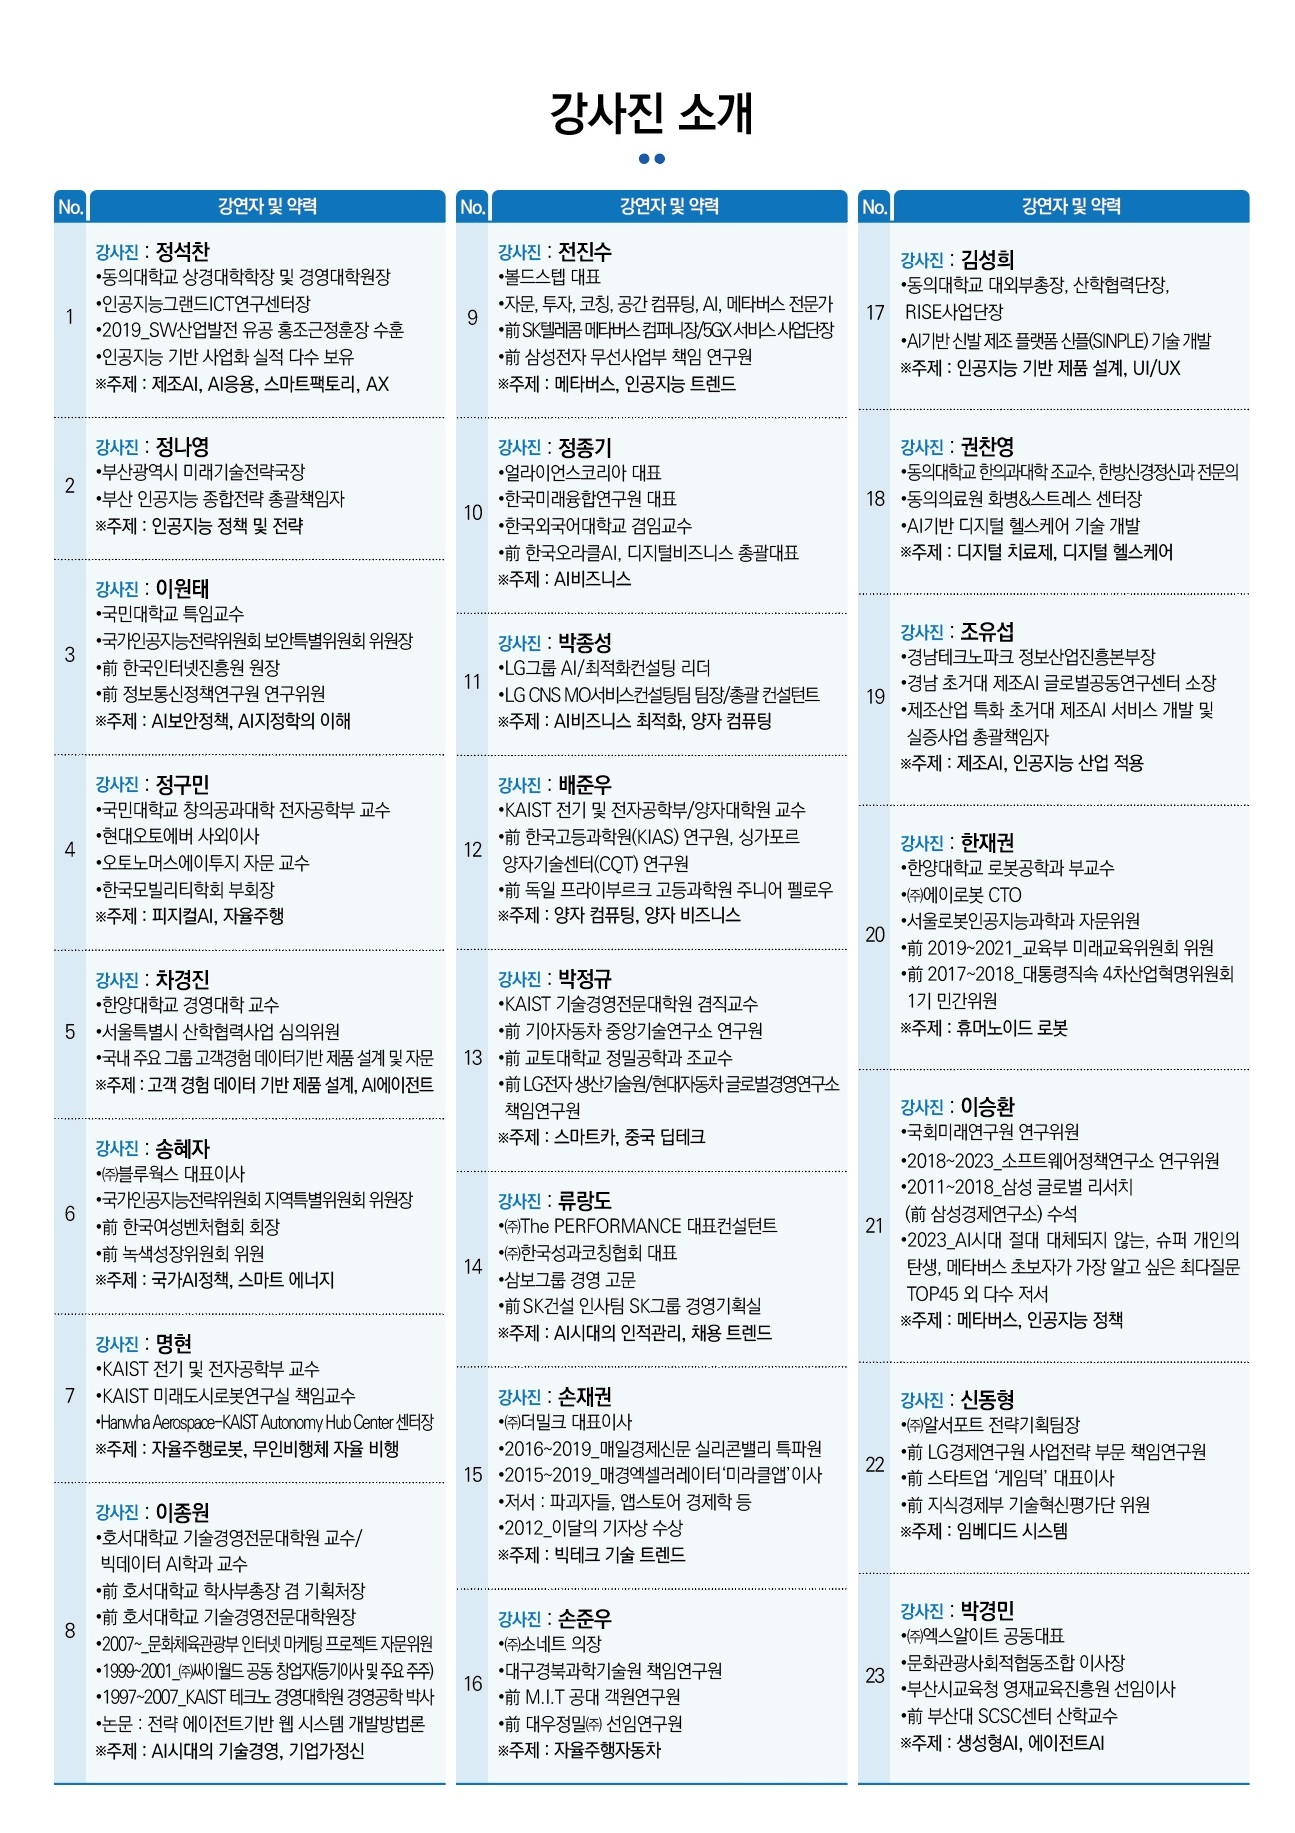
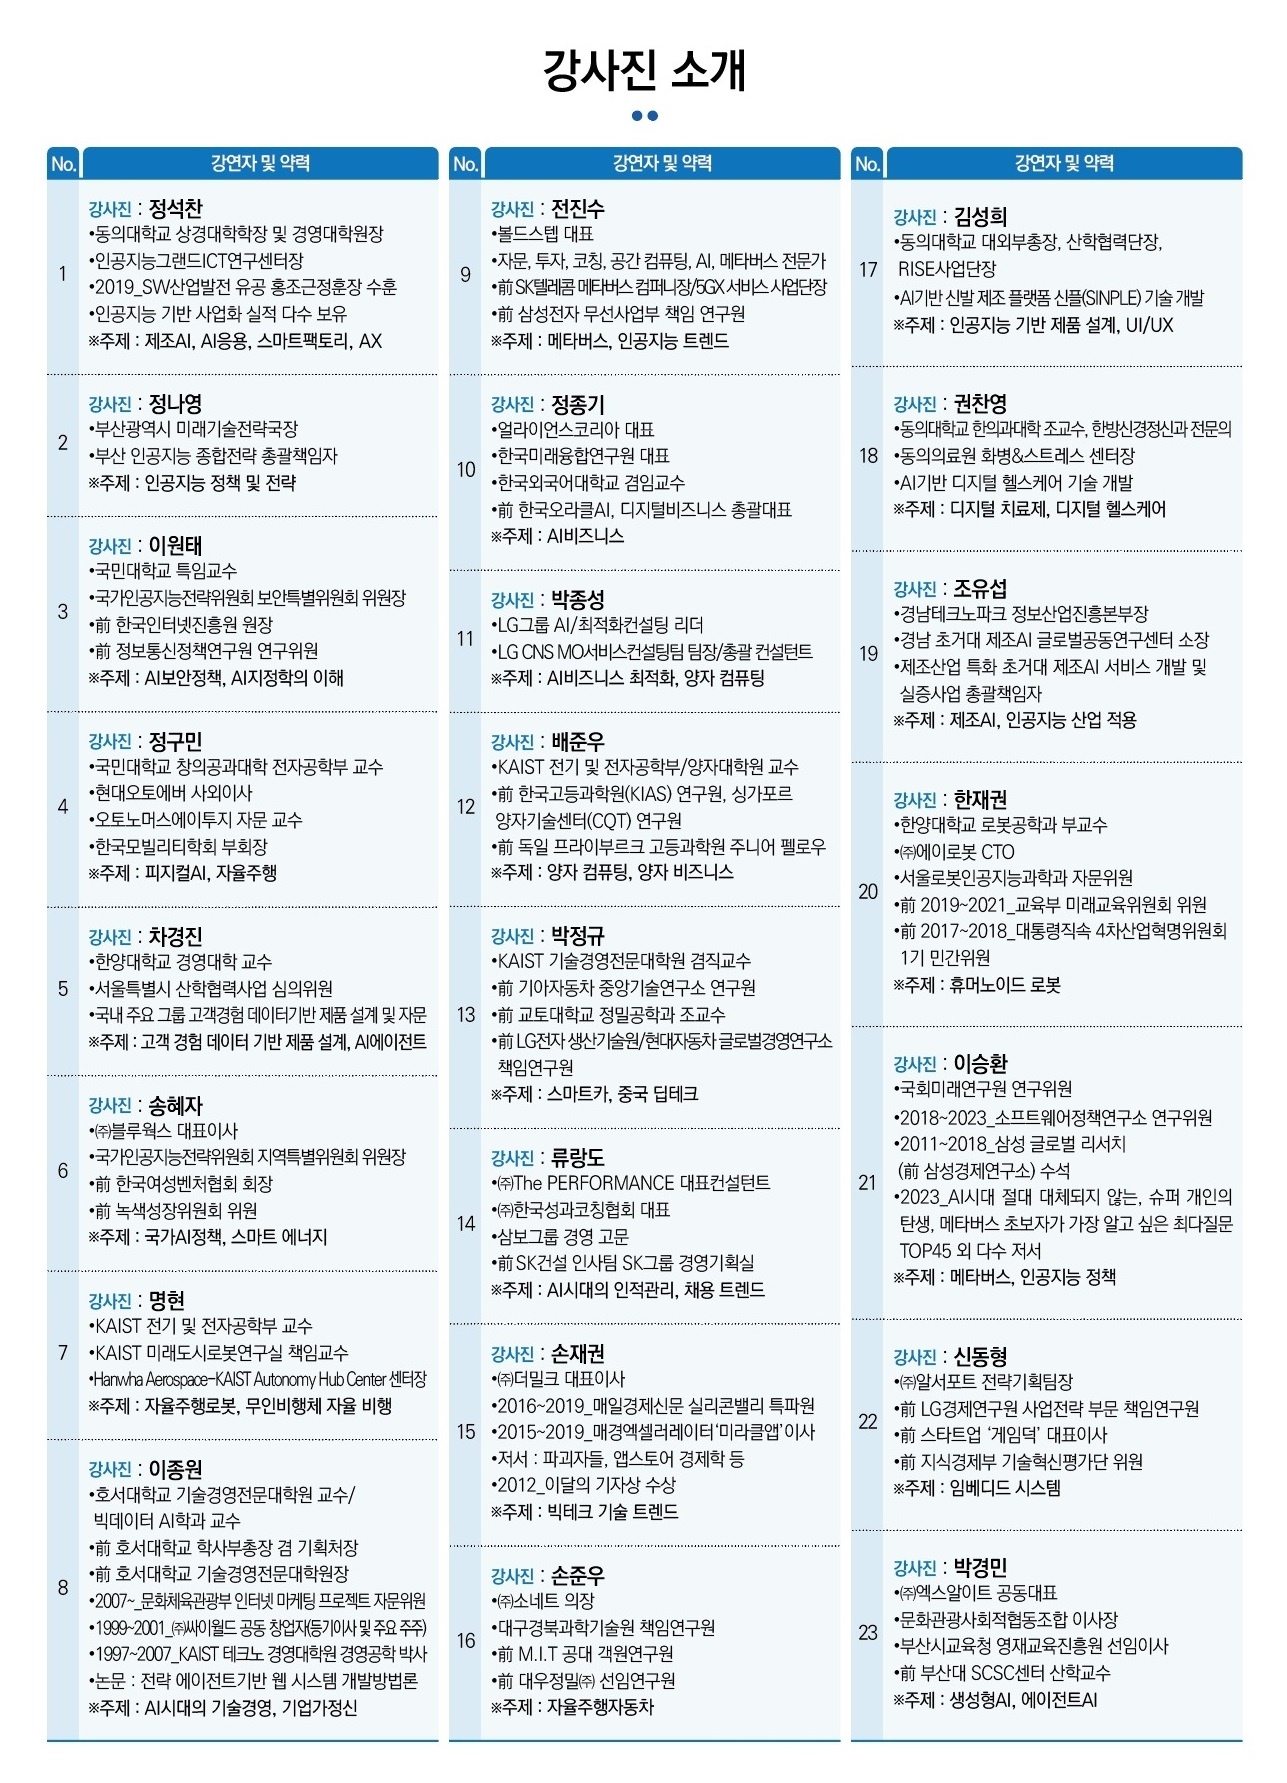
커리큘럼 추가 불필요 단추 삭제

Changed region(s): [[0.0311, 0.0308, 0.9635, 0.9871]]

diff --git a/index.html b/index.html
@@ -169,7 +169,7 @@
           style="cursor: pointer; min-height: 260px; padding-bottom: 20px;">
           <div>
             <span class="pill-tag-nvidia" style="margin-bottom: 12px;">CAMPUS LOCATION</span>
-            <h3 style="font-size: 20px; margin: 0 0 8px 0;">강의장 위치 & 오시는 길 (국제관 306호)</h3>
+            <h3 style="font-size: 20px; margin: 0 0 8px 0;">강의장 위치 & 오시는 길</h3>
             <div
               style="width: 100%; height: 130px; border-radius: var(--radius-sm); overflow: hidden; border: 1px solid var(--color-hairline); background: #f1f5f9; position: relative;">
               <img src="images/location.png" alt="강의장 오시는 길 약도"
@@ -269,23 +269,10 @@
 
     <!-- 3. SCHEDULE TAB -->
     <section id="tab-schedule" class="tab-content">
-      <div style="display: flex; justify-content: space-between; align-items: flex-start; margin-bottom: 32px; flex-wrap: wrap; gap: 16px;">
-        <div>
-          <span class="pill-tag-nvidia">AI AMP 2ND CURRICULUM</span>
-          <h2 style="font-size: 36px; margin-top: 8px;">2기 전체 강의 커리큘럼 & 일정표</h2>
-          <p style="color: var(--color-mute); font-size: 16px; margin: 0;">23인 석학 및 최고 명사 주차별 강의 내용과 강사 이력을 확인하고 강의자료를 다운로드하세요.</p>
-        </div>
-        <!-- 💡 상단 관리자 전용 신규 일정 추가 단추 영역 -->
-        <div id="adminTopLectureBtnContainer" style="display: none; align-items: center; gap: 10px; flex-wrap: wrap;">
-          <button type="button" class="btn btn-primary btn-sm" onclick="App.openAddLectureModal()"
-            style="font-weight: 700; padding: 9px 16px; font-size: 13.5px; display: inline-flex; align-items: center; gap: 6px;">
-            ➕ 신규 강의 일정 추가
-          </button>
-          <button type="button" class="btn btn-sm" onclick="App.openAddNetworkingEventModal()"
-            style="font-weight: 700; padding: 9px 16px; font-size: 13.5px; background: linear-gradient(135deg, #f59e0b, #d97706); color: #000; border: 1px solid #f59e0b; display: inline-flex; align-items: center; gap: 6px; box-shadow: 0 4px 12px rgba(245, 158, 11, 0.25);">
-            🎉 네트워킹 행사 추가
-          </button>
-        </div>
+      <div style="margin-bottom: 32px;">
+        <span class="pill-tag-nvidia">AI AMP 2ND CURRICULUM</span>
+        <h2 style="font-size: 36px; margin-top: 8px;">2기 전체 강의 커리큘럼 & 일정표</h2>
+        <p style="color: var(--color-mute); font-size: 16px; margin: 0;">23인 석학 및 최고 명사 주차별 강의 내용과 강사 이력을 확인하고 강의자료를 다운로드하세요.</p>
       </div>
 
       <!-- 2-Column Layout (Left: Schedule Cards, Right: 2026_3_curriculum.jpg Poster Card) -->
@@ -336,9 +323,14 @@
           </div>
 
           <a href="images/2026_3_curriculum.jpg" download="2026_AI_AMP_2기_커리큘럼.jpg" class="btn btn-outline btn-sm"
-            style="width: 100%; text-align: center; display: inline-flex; align-items: center; justify-content: center; gap: 6px;">
+            style="width: 100%; text-align: center; display: inline-flex; align-items: center; justify-content: center; gap: 6px; margin-bottom: 8px;">
             📥 커리큘럼 브로슈어 다운로드
           </a>
+          <button type="button" class="btn btn-primary btn-sm"
+            style="width: 100%; text-align: center; display: inline-flex; align-items: center; justify-content: center; gap: 6px; font-weight: 700; cursor: pointer;"
+            onclick="App.openReceiptZoomModal('images/2026_3_professor.jpg', '23인의 강사진')">
+            🎓 23인의 강사진 보기
+          </button>
         </div>
       </div>
     </section>

diff --git a/js/app.js b/js/app.js
@@ -659,6 +659,13 @@ const App = {
     const galleryAdminAddBtn = document.getElementById("galleryAdminAddBtn");
     const canViewLedger = this.hasPermission("ledger_view") || this.currentRole === "admin" || this.currentRole === "exec";
     const canManageGallery = this.hasPermission("gallery_manage");
+    const canViewMembers = this.hasPermission("members_view");
+
+    // 원우 디렉토리 열람 권한이 없으면 열쇠(🔒) 아이콘 표기, 있으면 해제
+    const membersNavTab = document.querySelector('.nav-item[data-tab="members"]');
+    if (membersNavTab) {
+      membersNavTab.classList.toggle("restricted-tab", !canViewMembers);
+    }
 
     // 장부 열람 권한이 있는 경우 관리자/장부 탭 노출
     if (adminNavTab) adminNavTab.style.display = canViewLedger ? "block" : "none";
@@ -964,12 +971,7 @@ const App = {
     const canManageCurriculum = this.hasPermission("curriculum_manage");
     const canDownloadCurriculum = this.hasPermission("curriculum_download");
 
-    // 💡 상단 및 하단 관리자 전용 강의/행사 추가 버튼 표시 제어
-    const adminTopBtnContainer = document.getElementById("adminTopLectureBtnContainer");
-    if (adminTopBtnContainer) {
-      adminTopBtnContainer.style.display = canManageCurriculum ? "flex" : "none";
-    }
-
+    // 💡 하단 관리자 전용 강의/행사 추가 버튼 표시 제어
     const adminAddBtnContainer = document.getElementById("adminAddLectureBtnContainer");
     if (adminAddBtnContainer) {
       adminAddBtnContainer.style.display = canManageCurriculum ? "block" : "none";

diff --git a/css/styles.css b/css/styles.css
@@ -361,7 +361,8 @@ p {
   font-weight: 600;
 }
 
-.nav-item.active::after {
+/* 💡 활성 탭 하단 인디케이터 바 (::before로 분리하여 restricted-tab 열쇠 이모지 ::after와 충돌 방지) */
+.nav-item.active::before {
   content: "";
   position: absolute;
   bottom: 0;
@@ -374,8 +375,12 @@ p {
 
 .nav-item.restricted-tab::after {
   content: "🔒";
-  margin-left: 5px;
-  font-size: 12px;
+  margin-left: 4px;
+  font-size: 11.5px;
+  display: inline-block;
+  line-height: 1;
+  position: static;
+  vertical-align: middle;
 }
 
 /* Mobile Bottom Navigation */
